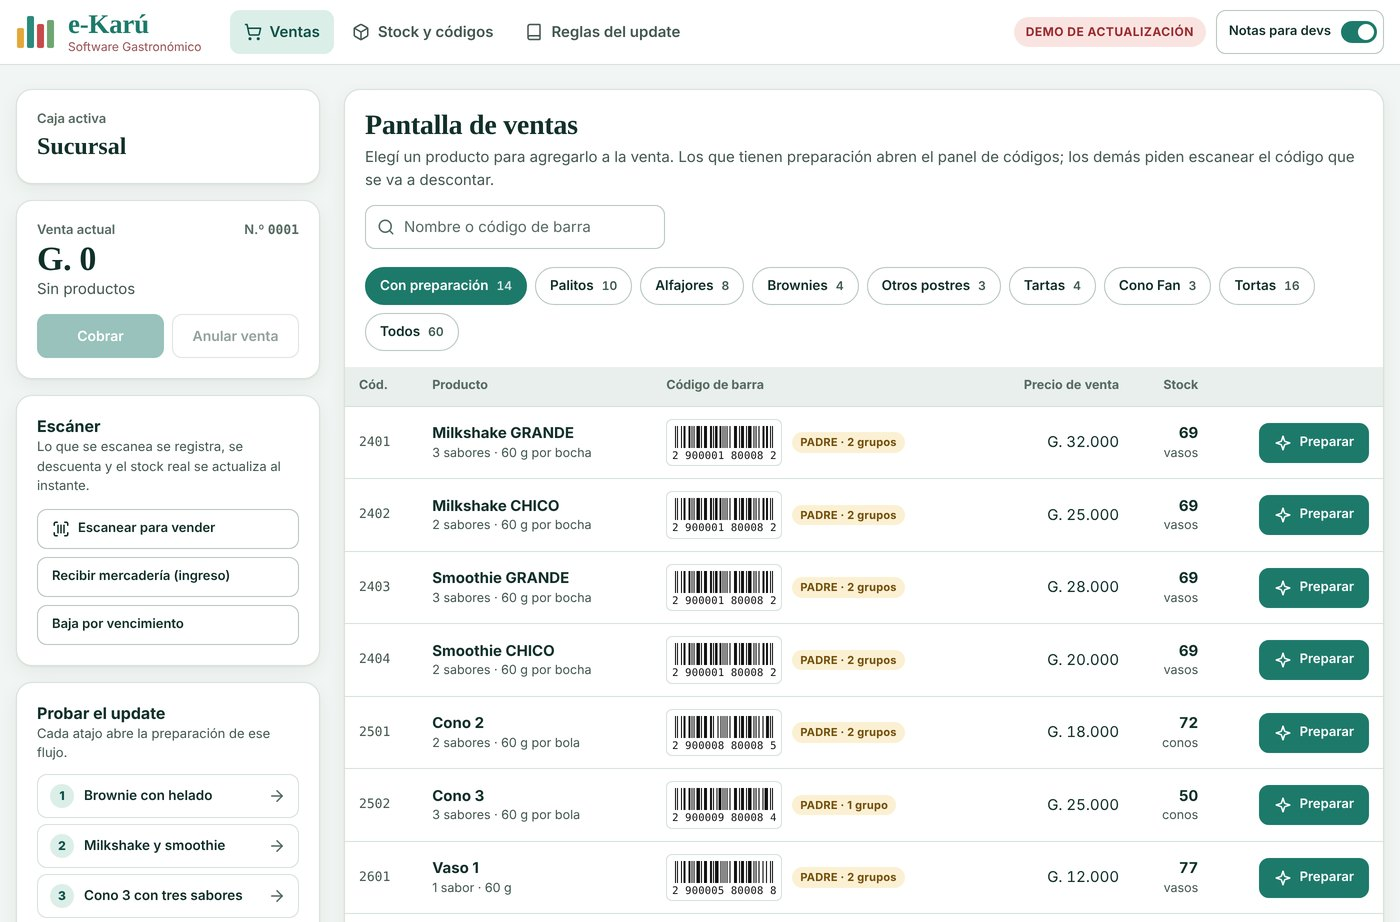
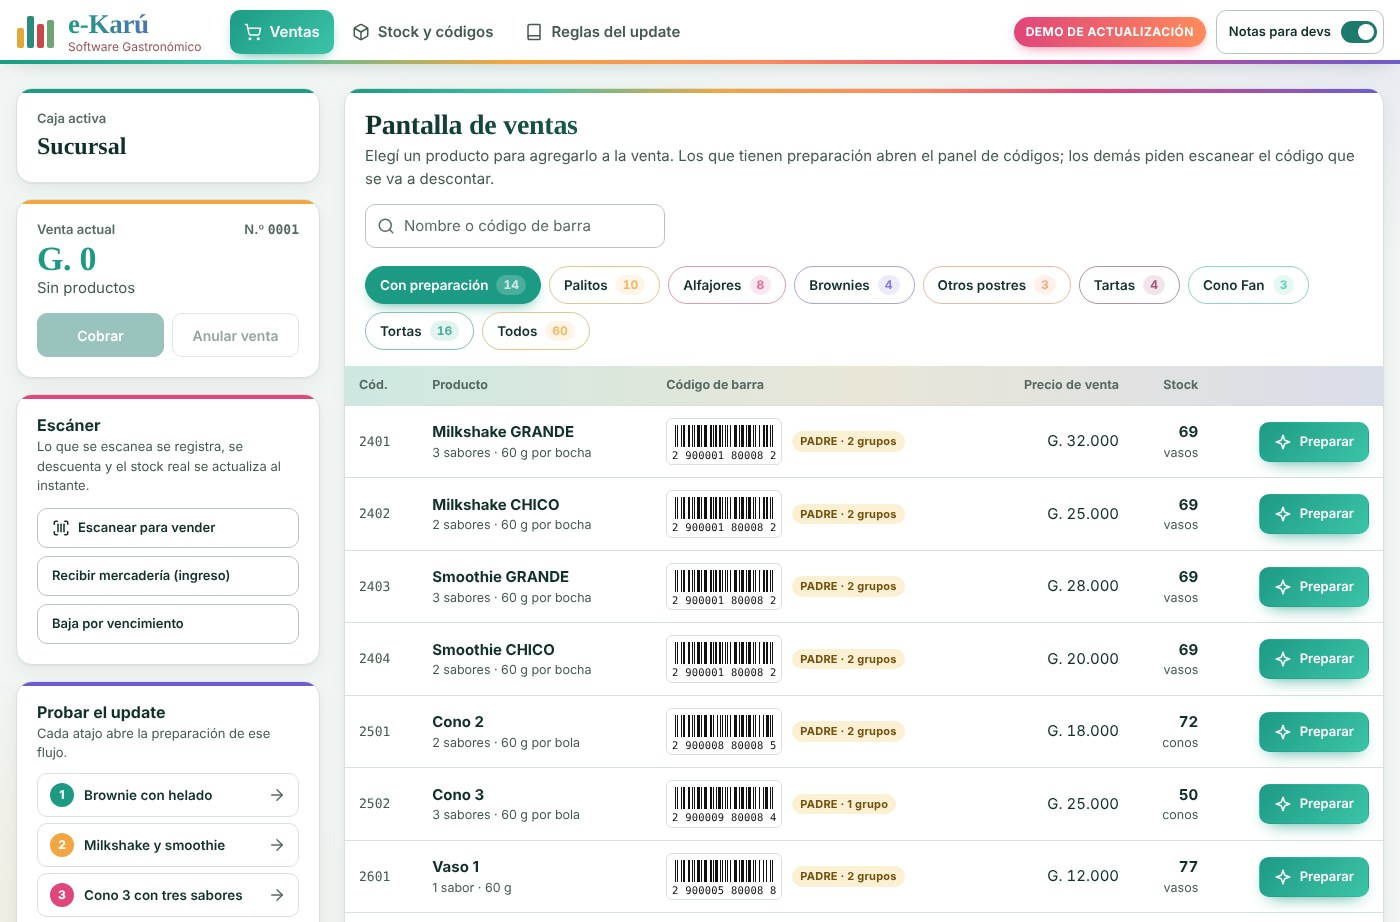
Colores en las apps y capturas nuevas para el README
- Etiko: cada familia de productos con su color, franja de colores y menús en color
- Glacé Compras: encabezados de los portales en degradado
- Capturas y diagrama de flujo rehechos con el nuevo diseño

Claude-Session: https://claude.ai/code/session_01SG32pyYJyfrkQ2o9TtUXHB

diff --git a/app.py b/app.py
@@ -2060,6 +2060,32 @@ SHADOW = "#06080B"
 UI_FONT = "Segoe UI"
 DISPLAY_FONT = "Segoe UI Semibold"
 MONO_FONT = "Consolas"
+# Colores vivos: cada familia de productos tiene su color (franja y etiqueta de categoría en el catálogo).
+RAINBOW = ("#1D9A84", "#3CC4A8", "#F2A541", "#FF8A5B", "#E0457B", "#B0336A", "#6D5BD0")
+CATEGORY_COLORS = {
+    "Palitos": "#F472B6", "Alfajores": "#F2A541", "Brownies": "#E0457B", "Postres": "#B07CF0",
+    "Tartas": "#FB923C", "Conos": "#3CC4A8", "Vasos": "#38BDF8", "Tortas": "#FB7185",
+    "Milkshakes": "#A78BFA", "Smoothies": "#4ADE80", "Grupos PADRE": "#FBBF24", "Baldes 10 x 8 cm": "#2DD4BF",
+}
+NAV_COLORS = {"catalogo": "#FF8A5B", "editor": "#3CC4A8"}
+
+
+def category_color(name):
+    return CATEGORY_COLORS.get(product_category(name), "#94A3B8")
+
+
+def rainbow_strip(parent, height=4, bg=None):
+    """Franja de colores (identidad visual de Etiko); se redibuja al cambiar de tamaño."""
+    c = tk.Canvas(parent, height=height, highlightthickness=0, bd=0, bg=bg or PANEL)
+
+    def draw(event=None):
+        c.delete("all")
+        w = max(1, c.winfo_width())
+        seg = w / len(RAINBOW)
+        for i, col in enumerate(RAINBOW):
+            c.create_rectangle(i * seg, 0, (i + 1) * seg + 1, height, fill=col, outline="")
+    c.bind("<Configure>", draw)
+    return c
 
 
 def resolve_fonts():
@@ -2340,8 +2366,10 @@ class CatalogList(tk.Canvas):
         fill = CARD_HOVER if (name == self.hover and not selected) else CARD
         self._bg[name] = round_rect(self, x0, y0, x1, y1, 12 * s, fill=fill,
                                     outline=ACCENT if selected else LINE, width=2 if selected else 1)
-        if selected:  # franja coral a la izquierda: la selección no depende solo del color del borde
-            round_rect(self, x0 + 2 * s, y0 + 10 * s, x0 + 6 * s, y1 - 10 * s, 2 * s, fill=ACCENT, outline="")
+        cat_col = category_color(name)
+        # franja de color de la familia; la fila elegida la lleva más ancha (no depende solo del borde)
+        round_rect(self, x0 + 2 * s, y0 + 8 * s, x0 + (7 if selected else 5) * s, y1 - 8 * s, 2 * s,
+                   fill=cat_col, outline="")
         self.hits.append((x0, y0, x1, y1, "row", name))
         # etiqueta blanca con código de barras real
         tw = int(150 * s)
@@ -2398,9 +2426,13 @@ class CatalogList(tk.Canvas):
                          fill=TEXT, font=self.f_name)
         self.create_text(text_x, y0 + 31 * s, anchor="nw", text=self._fit(product["detail"], self.f_detail, room),
                          fill=MUTED, font=self.f_detail)
+        cat = product_category(name).upper()
+        cat_w = self.f_small.measure(cat) + 14 * s
+        round_rect(self, text_x, y0 + 49 * s, text_x + cat_w, y0 + 66 * s, 8 * s, fill=CARD_HOVER, outline=cat_col)
+        self.create_text(text_x + cat_w / 2, y0 + 57.5 * s, text=cat, fill=cat_col, font=self.f_small)
         meta = f"{barcode_kind(print_code(name))}  ·  {format_short(product['format'])}"
-        self.create_text(text_x, y0 + 50 * s, anchor="nw", text=self._fit(meta, self.f_small, room),
-                         fill=MUTED, font=self.f_small)
+        self.create_text(text_x + cat_w + 8 * s, y0 + 50 * s, anchor="nw",
+                         text=self._fit(meta, self.f_small, max(10, room - cat_w - 8 * s)), fill=MUTED, font=self.f_small)
 
     # -- interacción -----------------------------------------------------------
     def _hit(self, x, y):
@@ -2609,6 +2641,7 @@ class EkaruApp(ctk.CTk):
         side.grid(row=0, column=0, sticky="nsew")
         side.grid_propagate(False)
         small = getattr(self, "compact", False)
+        rainbow_strip(side, 5).pack(fill="x")
         brand = ctk.CTkFrame(side, fg_color="transparent")
         brand.pack(fill="x", padx=20, pady=(14 if small else 24, 4 if small else 8))
         logo = brand
@@ -2625,7 +2658,7 @@ class EkaruApp(ctk.CTk):
                                       height=22)
         self.num_label.pack(padx=10, pady=2)
         self.nav = {}
-        ctk.CTkLabel(side, text="TRABAJO", font=self.fonts["label"], text_color=MUTED, height=18).pack(
+        ctk.CTkLabel(side, text="TRABAJO", font=self.fonts["label"], text_color="#3CC4A8", height=18).pack(
             anchor="w", padx=22, pady=(0, 2))
         for key, label in (("catalogo", "Catálogo de productos"), ("editor", "Editor de etiquetas")):
             button = ctk.CTkButton(side, text=label, anchor="w", height=34 if small else 42, corner_radius=10,
@@ -2633,7 +2666,7 @@ class EkaruApp(ctk.CTk):
                                    text_color=TEXT, border_spacing=12, command=lambda k=key: self.show_page(k))
             button.pack(fill="x", padx=12, pady=1 if small else 2)
             self.nav[key] = button
-        ctk.CTkLabel(side, text="HERRAMIENTAS", font=self.fonts["label"], text_color=MUTED,
+        ctk.CTkLabel(side, text="HERRAMIENTAS", font=self.fonts["label"], text_color="#B07CF0",
                      height=18).pack(anchor="w", padx=22, pady=(6 if small else 14, 2))
         for label, command in (("Etiquetas internas", self.open_internal_labels),
                                ("Leer un código", self.open_reader),
@@ -2643,7 +2676,7 @@ class EkaruApp(ctk.CTk):
                           border_spacing=12, command=command).pack(fill="x", padx=12, pady=1)
         box = ctk.CTkFrame(side, fg_color=CARD, corner_radius=12)
         box.pack(side="bottom", fill="x", padx=14, pady=(0, 10), before=logo)
-        ctk.CTkLabel(box, text="IMPRESORA", font=self.fonts["label"], text_color=MUTED).pack(
+        ctk.CTkLabel(box, text="IMPRESORA", font=self.fonts["label"], text_color="#F2A541").pack(
             anchor="w", padx=14, pady=(10, 2))
         self.printer_var = tk.StringVar(value="Buscando…")
         self.printer_menu = ctk.CTkOptionMenu(box, variable=self.printer_var, values=["Buscando…"], height=34,
@@ -2676,7 +2709,8 @@ class EkaruApp(ctk.CTk):
                 frame.grid_forget()
         for name, button in self.nav.items():
             active = name == key
-            button.configure(fg_color=CARD if active else "transparent", text_color=ACCENT if active else TEXT)
+            button.configure(fg_color=CARD if active else "transparent",
+                             text_color=NAV_COLORS.get(name, ACCENT) if active else TEXT)
 
     # -- página catálogo -------------------------------------------------------
     def _build_catalog_page(self):
@@ -2714,7 +2748,7 @@ class EkaruApp(ctk.CTk):
         panel.grid_propagate(False)
         panel.grid_columnconfigure(0, weight=1)
         panel.grid_rowconfigure(1, weight=1)
-        ctk.CTkLabel(panel, text="Vista previa de impresión", font=self.fonts["h2"], text_color=TEXT).grid(
+        ctk.CTkLabel(panel, text="Vista previa de impresión", font=self.fonts["h2"], text_color="#3CC4A8").grid(
             row=0, column=0, sticky="w", padx=18, pady=(14, 6))
         self.preview = tk.Canvas(panel, bg=CARD, highlightthickness=0, height=int(110 * self.s))
         self.preview.grid(row=1, column=0, sticky="nsew", padx=14)
